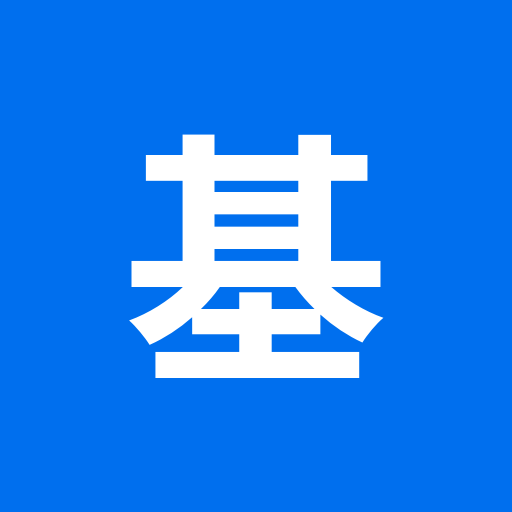
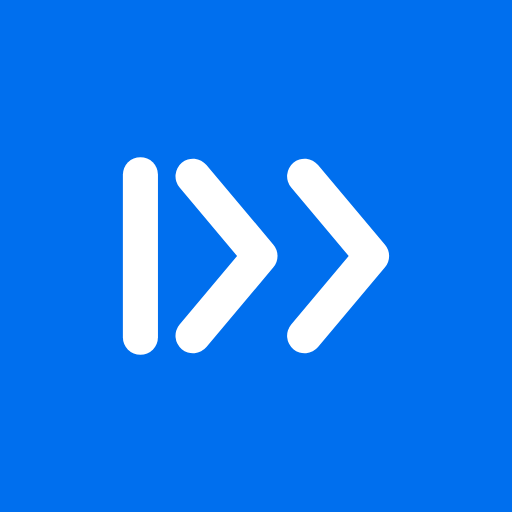
ロゴをB6（二連）に変更: アイコン・ログイン・ヘッダー
Claude-Session: https://claude.ai/code/session_01QHJCxQRU4MJNU1ETfcVRW2

Changed region(s): [[0.2188, 0.25, 0.7812, 0.75]]

diff --git a/index.html b/index.html
@@ -13,7 +13,7 @@
 <link rel="icon" href="icon-192.png">
 <link rel="apple-touch-icon" href="icon-180.png">
 <link rel="preconnect" href="https://fonts.googleapis.com">
-<link href="https://fonts.googleapis.com/css2?family=Inter:wght@400;500;600;700&family=Noto+Sans+JP:wght@400;500;700&display=swap" rel="stylesheet">
+<link href="https://fonts.googleapis.com/css2?family=Inter:wght@400;500;600;700&family=Sora:wght@700&family=Noto+Sans+JP:wght@400;500;700&display=swap" rel="stylesheet">
 <script>try{if(localStorage.getItem('kikan.theme')==='dark')document.documentElement.dataset.theme='dark';}catch(e){}</script>
 <style>
 :root{
@@ -53,6 +53,8 @@ button:focus-visible{outline:2px solid var(--pri);outline-offset:2px}
 a{color:var(--pri);text-decoration:none}
 svg.i{width:18px;height:18px;stroke:currentColor;fill:none;stroke-width:1.9;stroke-linecap:round;stroke-linejoin:round;flex:none}
 .hidden{display:none!important}
+.wm{font-family:Sora,Inter,sans-serif;font-weight:700;letter-spacing:-.03em}
+svg.lg{display:block;width:72%;height:72%;color:#fff}
 ::selection{background:var(--pri-soft)}
 
 /* ---------- loading bar ---------- */
@@ -63,8 +65,8 @@ svg.i{width:18px;height:18px;stroke:currentColor;fill:none;stroke-width:1.9;stro
 
 /* ---------- login ---------- */
 #login{max-width:380px;margin:0 auto;padding:96px 20px}
-#login .mark{width:52px;height:52px;border-radius:14px;background:var(--pri);color:#fff;display:grid;place-items:center;font-weight:700;font-size:22px;margin-bottom:18px}
-#login h1{font-size:22px;font-weight:700;margin:0 0 4px}
+#login .mark{width:56px;height:56px;border-radius:15px;background:var(--pri);display:grid;place-items:center;margin-bottom:18px}
+#login h1{font-size:26px;margin:0 0 4px}
 #login p{color:var(--fg2);margin:0 0 22px;font-size:13.5px}
 #login input{margin-bottom:10px}
 #login .err{color:var(--danger);font-size:13px;min-height:20px;margin-top:8px}
@@ -83,8 +85,8 @@ svg.i{width:18px;height:18px;stroke:currentColor;fill:none;stroke-width:1.9;stro
 .app{display:grid;grid-template-columns:224px 1fr;min-height:100%}
 aside{position:sticky;top:0;height:100vh;padding:20px 12px;border-right:1px solid var(--line);background:var(--surface2);display:flex;flex-direction:column;gap:2px}
 .logo{display:flex;align-items:center;gap:10px;padding:4px 10px 18px}
-.logo .mark{width:30px;height:30px;border-radius:9px;background:var(--pri);color:#fff;display:grid;place-items:center;font-weight:700}
-.logo b{font-size:15px}.logo small{display:block;color:var(--fg3);font-size:11px;font-weight:400;line-height:1.2}
+.logo .mark{width:32px;height:32px;border-radius:9px;background:var(--pri);display:grid;place-items:center;flex:none}
+.logo b{font-size:17px;line-height:1.1}.logo small{display:block;color:var(--fg3);font-size:11px;font-weight:400;line-height:1.2}
 .navbtn{display:flex;align-items:center;gap:10px;width:100%;border:0;background:none;padding:9px 11px;border-radius:var(--r-sm);color:var(--fg2);font-weight:500;text-align:left}
 .navbtn:hover{background:var(--d100);color:var(--fg)}
 .navbtn[aria-selected="true"]{background:var(--pri-soft);color:var(--pri)}
@@ -327,7 +329,8 @@ dialog::backdrop{background:var(--overlay);backdrop-filter:blur(2px)}
   main{padding:0 16px calc(78px + env(safe-area-inset-bottom))}
   .mhead{display:flex;align-items:center;justify-content:space-between;position:sticky;top:0;z-index:20;background:var(--bg);margin:0 -16px 14px;padding:calc(8px + env(safe-area-inset-top)) 10px 8px 16px;border-bottom:1px solid var(--line)}
   .mhead .brand{display:flex;align-items:center;gap:8px;font-weight:700;font-size:15px}
-  .mhead .brand .mark{width:26px;height:26px;border-radius:8px;background:var(--pri);color:#fff;display:grid;place-items:center;font-size:13px}
+  .mhead .brand .mark{width:26px;height:26px;border-radius:8px;background:var(--pri);display:grid;place-items:center}
+  .mhead .brand .wm{font-size:16px}
   .mhead .acts{display:flex;gap:2px}
   .grid,.cur{grid-template-columns:1fr}
   .kpis{grid-template-columns:repeat(3,1fr);gap:8px}
@@ -388,14 +391,15 @@ dialog::backdrop{background:var(--overlay);backdrop-filter:blur(2px)}
   <symbol id="i-flame" viewBox="0 0 24 24"><path d="M12 3c1 3.5 5 5 5 9.5a5 5 0 0 1-10 0c0-2 1-3.5 2-4.5.3 1.6 1.2 2.5 2.3 2.5C11.6 8 11 6 12 3z"/></symbol>
   <symbol id="i-gear" viewBox="0 0 24 24"><path d="M4 6h16M4 12h16M4 18h16"/><circle cx="9" cy="6" r="2" fill="var(--bg)"/><circle cx="15" cy="12" r="2" fill="var(--bg)"/><circle cx="11" cy="18" r="2" fill="var(--bg)"/></symbol>
   <symbol id="i-plus" viewBox="0 0 24 24"><path d="M12 5v14M5 12h14"/></symbol>
+  <symbol id="i-logo" viewBox="-110 -110 220 220"><rect x="-83" y="-62" width="22" height="124" rx="11" fill="currentColor" stroke="none"/><path d="M-39 -50L3 0L-39 50M31 -50L73 0L31 50" fill="none" stroke="currentColor" stroke-width="22" stroke-linecap="round" stroke-linejoin="round"/></symbol>
 </svg>
 
 <div id="loadbar"><i></i></div>
 
 <div id="login">
-  <div class="mark">基</div>
-  <h1>基幹</h1>
-  <p>個人基幹システム</p>
+  <div class="mark"><svg class="lg"><use href="#i-logo"/></svg></div>
+  <h1 class="wm">kikan</h1>
+  <p>基幹 — 個人基幹システム</p>
   <input type="email" id="email" placeholder="メールアドレス" autocomplete="username" autofocus>
   <input type="password" id="password" placeholder="パスワード" autocomplete="current-password">
   <button class="btn block" id="loginBtn">ログイン</button>
@@ -415,7 +419,7 @@ dialog::backdrop{background:var(--overlay);backdrop-filter:blur(2px)}
 
 <div id="app" class="app hidden">
 <aside>
-  <div class="logo"><div class="mark">基</div><div><b>基幹</b><small>個人基幹システム</small></div></div>
+  <div class="logo"><div class="mark"><svg class="lg"><use href="#i-logo"/></svg></div><div><b class="wm">kikan</b><small>基幹 · 個人基幹システム</small></div></div>
   <button class="navbtn" data-tab="home" aria-selected="true"><svg class="i"><use href="#i-home"/></svg>ホーム<span class="k">1</span></button>
   <button class="navbtn" data-tab="tasks" aria-selected="false"><svg class="i"><use href="#i-task"/></svg>タスク<span class="badge" id="navBadge" hidden></span><span class="k">2</span></button>
   <button class="navbtn" data-tab="projects" aria-selected="false"><svg class="i"><use href="#i-proj"/></svg>プロジェクト<span class="k">3</span></button>
@@ -433,7 +437,7 @@ dialog::backdrop{background:var(--overlay);backdrop-filter:blur(2px)}
 
 <main>
   <div class="mhead">
-    <div class="brand"><span class="mark">基</span>基幹</div>
+    <div class="brand"><span class="mark"><svg class="lg"><use href="#i-logo"/></svg></span><span class="wm">kikan</span></div>
     <div class="acts">
       <button class="iconbtn" data-act="refresh" aria-label="更新"><svg class="i"><use href="#i-refresh"/></svg></button>
       <button class="iconbtn" data-act="settings" aria-label="設定"><svg class="i"><use href="#i-gear"/></svg></button>
@@ -620,7 +624,7 @@ dialog::backdrop{background:var(--overlay);backdrop-filter:blur(2px)}
   <div class="setrow"><div class="l"><b>データ</b><small id="setStats"></small></div><button class="btn flat sm" data-act="refresh">更新</button></div>
   <div class="setrow"><div class="l"><b>入力の書き方</b><small>タスク: 明日 / 金曜 / 10/15 / 来週 / 30分 / 1時間 / #私用 / @プロジェクト名<br>収支: 内容 金額 [円] [口座名] [収入] [#カテゴリ]</small></div></div>
 </div>
-<div class="mfoot"><span class="muted">基幹 v3</span><div><button class="btn flat" data-close="setDlg">閉じる</button></div></div></dialog>
+<div class="mfoot"><span class="muted">kikan v3.1</span><div><button class="btn flat" data-close="setDlg">閉じる</button></div></div></dialog>
 
 <div class="toast" id="toast"></div>
 
